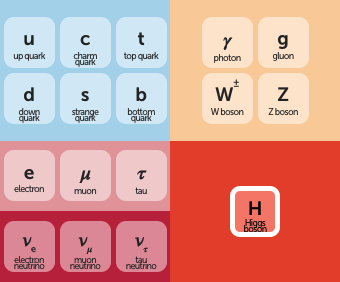
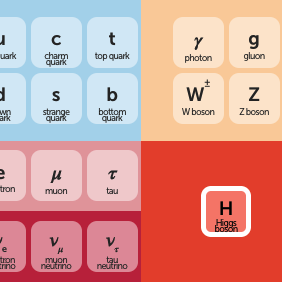
re-crop screenshots

diff --git a/build/index.html b/build/index.html
@@ -1,1 +1,1 @@
-<!doctype html><html lang="en"><head><meta charset="utf-8"/><link rel="icon" href="/favicon.ico"/><meta name="viewport" content="width=device-width,initial-scale=1"/><meta name="theme-color" content="#000000"/><meta name="description" content="Boston-based web developer/designer, specializing in data visualization, interactive graphics, WordPress development, and UI/UX."/><link rel="apple-touch-icon" href="/avatar.png"/><link rel="manifest" href="/manifest.json"/><title>Tyler Machado: web developer, designer, and data visualization specialist in Boston, MA</title><script defer="defer" src="/static/js/main.6cc22be2.js"></script><link href="/static/css/main.0512ceb8.css" rel="stylesheet"></head><body><noscript>You need to enable JavaScript to run this app.</noscript><div id="root"></div></body></html>
+<!doctype html><html lang="en"><head><meta charset="utf-8"/><link rel="icon" href="/favicon.ico"/><meta name="viewport" content="width=device-width,initial-scale=1"/><meta name="theme-color" content="#000000"/><meta name="description" content="Boston-based web developer/designer, specializing in data visualization, UI/UX work, front-end development and WordPress."/><link rel="apple-touch-icon" href="/avatar.png"/><link rel="manifest" href="/manifest.json"/><title>Tyler Machado | data visualization, UI/UX design, frontend development | Boston, MA</title><script defer="defer" src="/static/js/main.6cc22be2.js"></script><link href="/static/css/main.0512ceb8.css" rel="stylesheet"></head><body><noscript>You need to enable JavaScript to run this app.</noscript><div id="root"></div></body></html>
